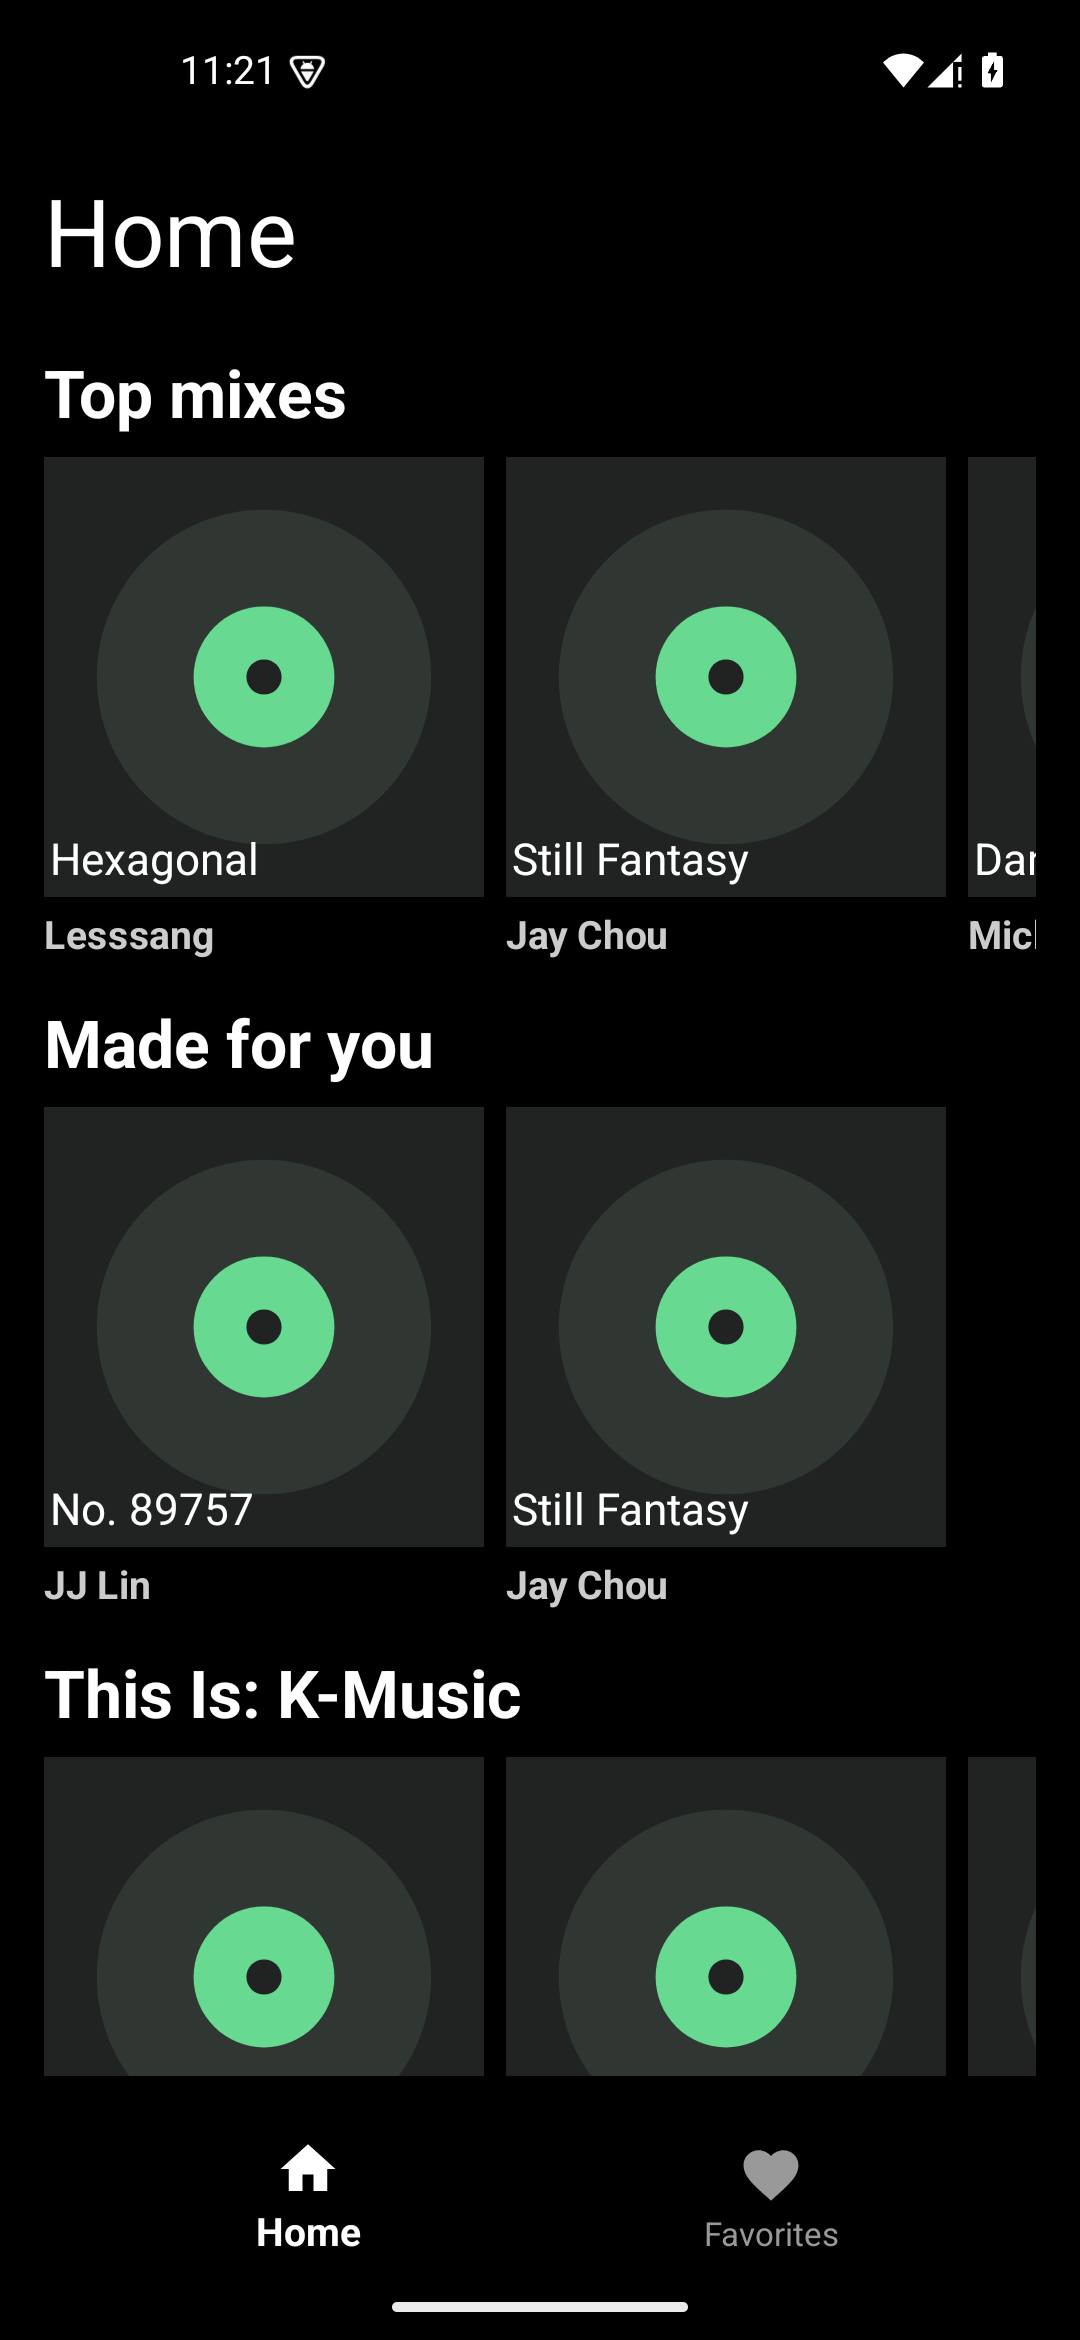
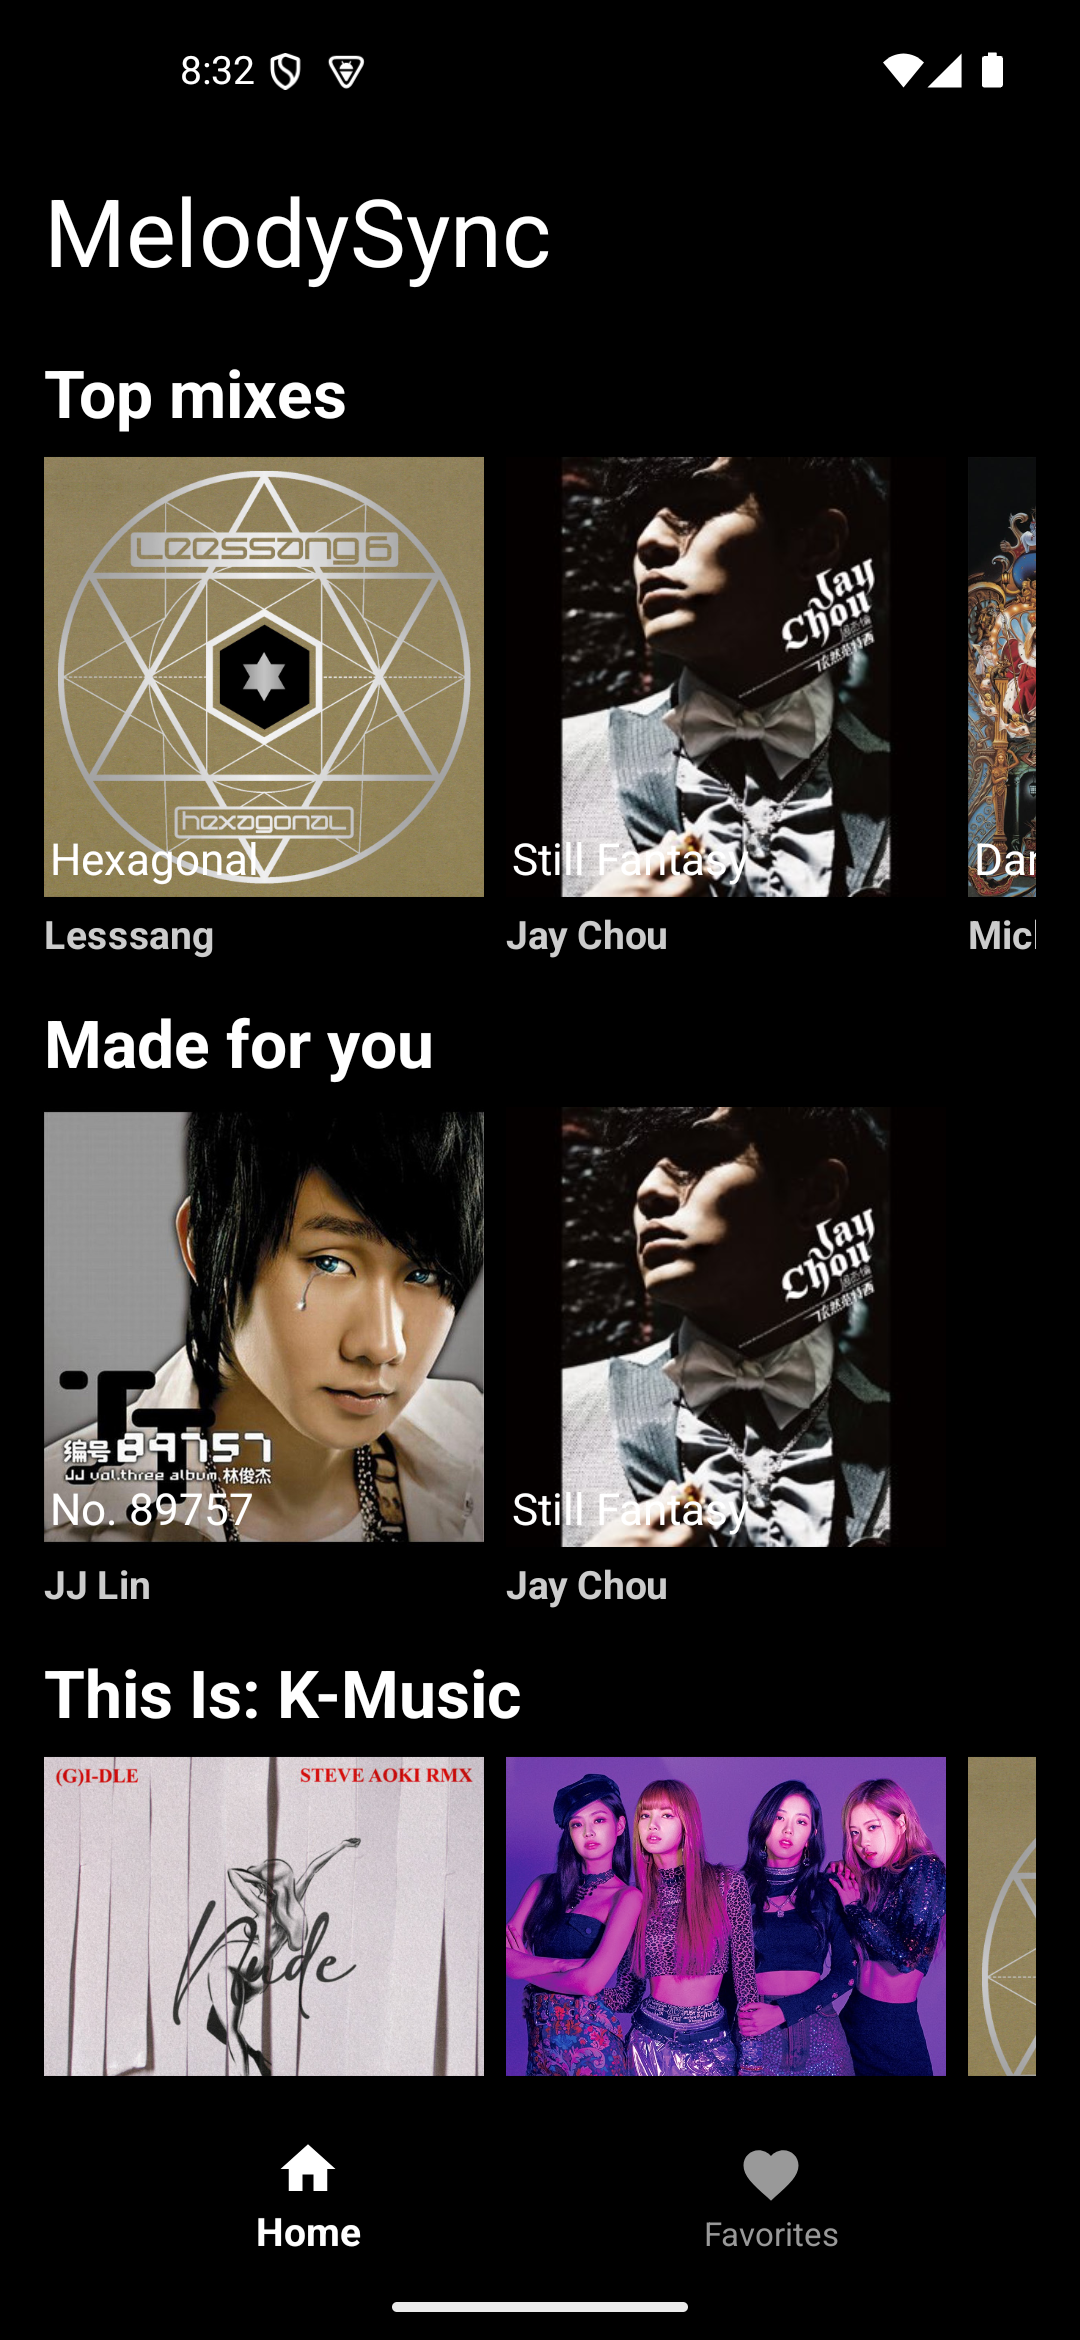
improve

diff --git a/android/app/src/test/java/com/laioffer/spotify/UiStartupTest.kt b/android/app/src/test/java/com/laioffer/spotify/UiStartupTest.kt
@@ -5,9 +5,12 @@ import androidx.lifecycle.ViewModelProvider
 import androidx.navigation.fragment.NavHostFragment
 import androidx.test.core.app.ActivityScenario
 import com.google.android.material.bottomnavigation.BottomNavigationView
+import com.laioffer.spotify.datamodel.Album
 import com.laioffer.spotify.player.PlayerViewModel
 import com.laioffer.spotify.ui.favorite.FavoriteFragment
 import com.laioffer.spotify.ui.home.HomeFragment
+import com.laioffer.spotify.ui.home.HomeFragmentDirections
+import com.laioffer.spotify.ui.favorite.FavoriteFragmentDirections
 import org.junit.Assert.*
 import org.junit.Test
 import org.junit.runner.RunWith
@@ -20,6 +23,41 @@ import org.robolectric.annotation.LooperMode
 @Config(sdk = [34], application = MainApplication::class)
 @LooperMode(LooperMode.Mode.PAUSED)
 class UiStartupTest {
+    @Test fun tappingHomeFromAnAlbumReturnsToHome() {
+        assertAlbumReselectionReturnsToRoot(R.id.homeFragment)
+    }
+
+    @Test fun tappingFavoritesFromAnAlbumReturnsToFavorites() {
+        assertAlbumReselectionReturnsToRoot(R.id.favoriteFragment)
+    }
+
+    private fun assertAlbumReselectionReturnsToRoot(destination: Int) {
+        ActivityScenario.launch(MainActivity::class.java).use { scenario ->
+            scenario.onActivity { activity ->
+                activity.supportFragmentManager.executePendingTransactions()
+                val navHost = activity.supportFragmentManager
+                    .findFragmentById(R.id.nav_host_fragment) as NavHostFragment
+                val bottomNavigation = activity.findViewById<BottomNavigationView>(R.id.nav_view)
+                bottomNavigation.selectedItemId = destination
+                navHost.childFragmentManager.executePendingTransactions()
+                val album = Album.empty().copy(id = 1, name = "Hexagonal")
+                val action = if (destination == R.id.homeFragment) {
+                    HomeFragmentDirections.actionHomeFragmentToPlaylistFragment(album)
+                } else {
+                    FavoriteFragmentDirections.actionFavoriteFragmentToPlaylistFragment(album)
+                }
+                navHost.navController.navigate(action)
+                navHost.childFragmentManager.executePendingTransactions()
+                assertEquals(R.id.playlistFragment, navHost.navController.currentDestination?.id)
+                assertEquals(destination, bottomNavigation.selectedItemId)
+
+                bottomNavigation.selectedItemId = destination
+                navHost.childFragmentManager.executePendingTransactions()
+                assertEquals(destination, navHost.navController.currentDestination?.id)
+            }
+        }
+    }
+
     @Test fun launchConnectsHomeNavigationBottomMenuAndPlayerHost() {
         ActivityScenario.launch(MainActivity::class.java).use { scenario ->
             scenario.onActivity { activity ->

diff --git a/android/app/src/main/java/com/laioffer/spotify/ui/home/HomeScreen.kt b/android/app/src/main/java/com/laioffer/spotify/ui/home/HomeScreen.kt
@@ -23,6 +23,7 @@ import coil.compose.AsyncImage
 import com.laioffer.spotify.R
 import com.laioffer.spotify.datamodel.Album
 import com.laioffer.spotify.datamodel.Section
+import com.laioffer.spotify.ui.artwork.artworkModel
 
 
 @Composable
@@ -96,12 +97,12 @@ private fun AlbumCover(album: Album, onTap: (Album) -> Unit) {
     Column(modifier = Modifier.clickable { onTap(album) }) {
         Box(modifier = Modifier.size(160.dp)) {
             AsyncImage(
-                model = album.cover,
+                model = album.artworkModel(),
                 placeholder = painterResource(R.drawable.album_placeholder),
                 error = painterResource(R.drawable.album_placeholder),
                 contentDescription = null,
                 modifier = Modifier.fillMaxSize(),
-                contentScale = ContentScale.FillBounds
+                contentScale = ContentScale.Crop
             )
             Text(
                 text = album.name,
@@ -138,7 +139,7 @@ private fun LoadingSection(text: String) {
 fun HomeScreenHeader() {
     Column {
         Text(
-            stringResource(id = R.string.menu_home),
+            stringResource(id = R.string.app_name),
             style = MaterialTheme.typography.h4,
             color = Color.White
         )

diff --git a/android/app/src/main/java/com/laioffer/spotify/ui/playlist/PlaylistScreen.kt b/android/app/src/main/java/com/laioffer/spotify/ui/playlist/PlaylistScreen.kt
@@ -27,6 +27,7 @@ import com.laioffer.spotify.R
 import com.laioffer.spotify.datamodel.Album
 import com.laioffer.spotify.datamodel.Song
 import com.laioffer.spotify.player.PlayerViewModel
+import com.laioffer.spotify.ui.artwork.artworkModel
 
 @Composable
 fun PlaylistScreen(playlistViewModel: PlaylistViewModel, playerViewModel: PlayerViewModel) {
@@ -90,7 +91,7 @@ private fun AlbumCover(album: Album, favorite: Boolean, saving: Boolean, onFavor
         }
         Box(Modifier.align(Alignment.Center).widthIn(max = 240.dp).fillMaxWidth(0.7f).aspectRatio(1f)) {
             Image(painterResource(R.drawable.vinyl_background), contentDescription = null, modifier = Modifier.fillMaxSize())
-            AsyncImage(model = album.cover,
+            AsyncImage(model = album.artworkModel(),
                 placeholder = painterResource(R.drawable.album_placeholder),
                 error = painterResource(R.drawable.album_placeholder), contentDescription = null, contentScale = ContentScale.Crop,
                 modifier = Modifier.align(Alignment.Center).fillMaxWidth(0.6f).aspectRatio(1f).clip(CircleShape))

diff --git a/android/app/src/main/java/com/laioffer/spotify/ui/favorite/FavoriteScreen.kt b/android/app/src/main/java/com/laioffer/spotify/ui/favorite/FavoriteScreen.kt
@@ -20,6 +20,7 @@ import androidx.compose.ui.res.painterResource
 import androidx.compose.ui.res.stringResource
 import androidx.compose.ui.unit.dp
 import coil.compose.AsyncImage
+import com.laioffer.spotify.ui.artwork.artworkModel
 import com.laioffer.spotify.R
 import com.laioffer.spotify.datamodel.Album
 
@@ -75,7 +76,7 @@ private fun FavoriteAlbumRow(album: Album, onTap: (Album) -> Unit) {
         verticalAlignment = Alignment.CenterVertically
     ) {
         AsyncImage(
-            model = album.cover,
+            model = album.artworkModel(),
                 placeholder = painterResource(R.drawable.album_placeholder),
                 error = painterResource(R.drawable.album_placeholder),
             contentDescription = null,
@@ -83,7 +84,7 @@ private fun FavoriteAlbumRow(album: Album, onTap: (Album) -> Unit) {
                 .width(60.dp)
                 .aspectRatio(1.0f)
                 .clip(RoundedCornerShape(8.dp)),
-            contentScale = ContentScale.FillBounds
+            contentScale = ContentScale.Crop
         )
         Column(
             modifier = Modifier

diff --git a/android/app/src/main/java/com/laioffer/spotify/MainActivity.kt b/android/app/src/main/java/com/laioffer/spotify/MainActivity.kt
@@ -21,7 +21,13 @@ class MainActivity : AppCompatActivity() {
         super.onCreate(savedInstanceState)
         setContentView(R.layout.activity_main)
         val navHost = supportFragmentManager.findFragmentById(R.id.nav_host_fragment) as NavHostFragment
-        findViewById<BottomNavigationView>(R.id.nav_view).setupWithNavController(navHost.navController)
+        findViewById<BottomNavigationView>(R.id.nav_view).apply {
+            setupWithNavController(navHost.navController)
+            // Album details keep their parent tab selected; tapping it returns to that tab.
+            setOnItemReselectedListener { item ->
+                navHost.navController.popBackStack(item.itemId, false)
+            }
+        }
         findViewById<ComposeView>(R.id.mini_player).apply {
             setViewCompositionStrategy(ViewCompositionStrategy.DisposeOnViewTreeLifecycleDestroyed)
             setContent { SpotifyTheme(darkTheme = true) { MiniPlayer(playerViewModel) } }

diff --git a/android/app/src/main/java/com/laioffer/spotify/ui/artwork/AlbumArtwork.kt b/android/app/src/main/java/com/laioffer/spotify/ui/artwork/AlbumArtwork.kt
@@ -1,0 +1,16 @@
+package com.laioffer.spotify.ui.artwork
+
+import com.laioffer.spotify.R
+import com.laioffer.spotify.datamodel.Album
+
+/** Catalog artwork is bundled, including for favorites saved with older remote URLs. */
+fun Album.artworkModel(): Any = when (id) {
+    1 -> R.drawable.album_hexagonal
+    2 -> R.drawable.album_still_fantasy
+    3 -> R.drawable.album_dangerous
+    4 -> R.drawable.album_kite
+    5 -> R.drawable.album_no_89757
+    6 -> R.drawable.album_nxde_remix
+    7 -> R.drawable.album_blackpink_in_your_area
+    else -> if (cover.isBlank()) R.drawable.album_placeholder else cover
+}

diff --git a/README.md b/README.md
@@ -2,13 +2,17 @@
 
 An Android music application built with Kotlin, Jetpack Compose, Navigation, Hilt, Retrofit, Room and Media3 ExoPlayer, with a Kotlin/Ktor music service.
 
+## Demo
+
+[Watch the MelodySync demo](https://drive.google.com/file/d/1MTr7gNUSFAoPLRzU3hx1GziUvovPmoKs/view?usp=sharing)
+
 ## Features
 
 - Browse the home feed and open an album's track list.
 - Add/remove favorite albums and keep them in a local Room database across app restarts.
 - Play tracks through an Activity-shared mini player, pause/resume, switch songs and retry failures.
 - Keep the player while navigating between pages or rotating the screen. Playback pauses when the app leaves the foreground.
-- Loading, empty and failure states with retry controls; local artwork when a remote cover cannot load.
+- Bundled artwork for all seven catalog albums across the home feed, playlists and saved favorites; loading, empty and failure states with retry controls.
 - Typed JSON APIs, validated catalog resources and audio HEAD/byte-range responses.
 
 ## Repository layout
@@ -74,9 +78,9 @@ Install that debug APK on the phone. The default emulator address is not a physi
 
 ## Validation and scope
 
-The repair includes 22 Android unit/Robolectric tests covering player behavior, network contracts, state races, Room close/reopen persistence and production Hilt Activity/navigation startup. The backend has 11 tests for catalog integrity, JSON, errors and audio ranges. Android debug compilation and lint are part of verification; lint has no errors, with development/resource warnings documented in the repair notes.
+The repair includes 24 Android unit/Robolectric tests covering player behavior, network contracts, state races, Room close/reopen persistence, production Hilt Activity/navigation startup and returning from album details using the bottom tabs. The backend has 11 tests for catalog integrity, JSON, errors and audio ranges. Android debug compilation and lint are part of verification; lint has no errors, with development/resource warnings documented in the repair notes.
 
-Playback is foreground-only. Background services, notification/lock-screen controls, account login, automatic next-track queues and offline audio downloads are outside this implementation. Covers still use the original remote URLs, with local placeholders if unavailable. Catalog durations are display metadata; audio bytes are streamed from the bundled resources.
+Playback is foreground-only. Background services, notification/lock-screen controls, account login, automatic next-track queues and offline audio downloads are outside this implementation. The Android app bundles artwork for the seven catalog albums, so these covers load without contacting an external image host. Previously saved favorites use the same bundled covers without a database migration. Unknown future albums can still use their supplied cover URLs, with a placeholder on failure. See [artwork sources and asset details](docs/ARTWORK.md). Catalog durations are display metadata; audio bytes are streamed from the bundled resources.
 
 Observed Android 15 emulator checks include real audio processing, pause, shared playback, rotation and favorites surviving a process restart. Screenshots: [Home](docs/images/home.png), [Playlist/player](docs/images/playlist-playing.png).
 

diff --git a/docs/ARTWORK.md b/docs/ARTWORK.md
@@ -1,0 +1,17 @@
+# Bundled album artwork
+
+The seven catalog covers are stored in [`drawable-nodpi`](../android/app/src/main/res/drawable-nodpi/) and included in the Android APK. Home, playlist and favorite views select the bundled image by album ID, including favorites saved with the earlier remote cover URLs. These catalog covers do not require an image-host request at runtime.
+
+Retrieved on 2026-11-05. Images were downloaded without editing from the sources below. The artwork belongs to its respective rights holders; it is not original MelodySync artwork.
+
+| Album ID | Album | Local asset | Source page |
+| --- | --- | --- | --- |
+| 1 | Leessang — Hexagonal | [album_hexagonal.jpg](../android/app/src/main/res/drawable-nodpi/album_hexagonal.jpg) | [Shazam / Apple artwork](https://www.shazam.com/song/339950183/cant-breakup-girl-cant-breakaway-boy-feat-jung-in) |
+| 2 | Jay Chou — Still Fantasy | [album_still_fantasy.jpg](../android/app/src/main/res/drawable-nodpi/album_still_fantasy.jpg) | [Apple Music](https://music.apple.com/us/album/%E4%BE%9D%E7%84%B6%E8%8C%83%E7%89%B9%E8%A5%BF/1721453996) |
+| 3 | Michael Jackson — Dangerous | [album_dangerous.jpg](../android/app/src/main/res/drawable-nodpi/album_dangerous.jpg) | [Michael Jackson official discography](https://www.michaeljackson.com/albums/dangerous/) |
+| 4 | Stefanie Sun — Kite | [album_kite.jpg](../android/app/src/main/res/drawable-nodpi/album_kite.jpg) | [Apple Music](https://music.apple.com/tw/album/%E9%A2%A8%E7%AE%8F/297994281) |
+| 5 | JJ Lin — No. 89757 | [album_no_89757.jpg](../android/app/src/main/res/drawable-nodpi/album_no_89757.jpg) | [Spotify](https://open.spotify.com/album/5OetT1AzRblq9NstfYM4Xv) |
+| 6 | (G)I-dle — Nxde (Steve Aoki Remix) | [album_nxde_remix.jpg](../android/app/src/main/res/drawable-nodpi/album_nxde_remix.jpg) | [Apple Music](https://music.apple.com/cn/album/nxde-steve-aoki-remix-single/1717114048) |
+| 7 | BLACKPINK — BLACKPINK IN YOUR AREA | [album_blackpink_in_your_area.jpg](../android/app/src/main/res/drawable-nodpi/album_blackpink_in_your_area.jpg) | [Official YGEX discography](https://ygex.jp/blackpink/discography/detail.php?id=1016135) |
+
+Direct image URLs, dimensions, byte counts and SHA-256 hashes are recorded in [artwork-sources.json](artwork-sources.json). Unknown future album IDs continue to use their supplied cover URLs, with the local placeholder on failure.
